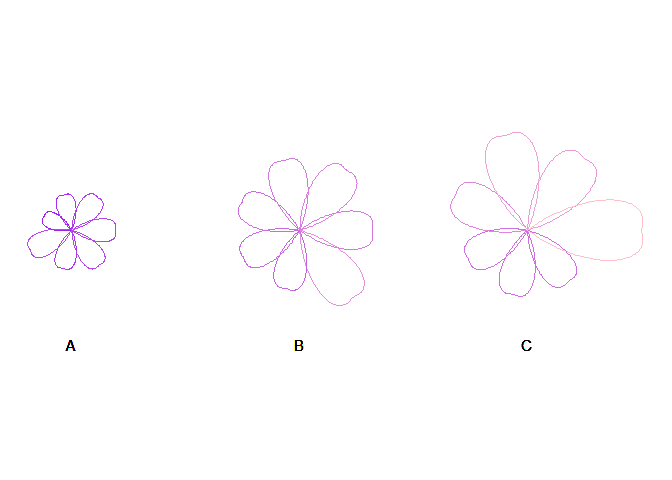
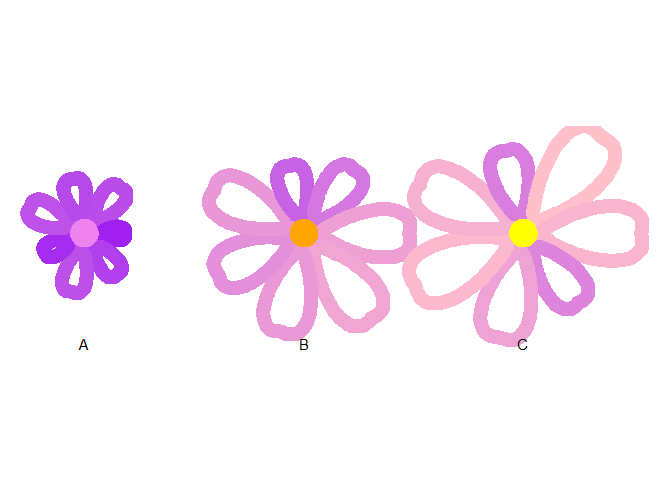
update readme

Changed region(s): [[0.2812, 0.25, 0.9688, 0.75], [0.0312, 0.3438, 0.2188, 0.625], [0.0938, 0.6875, 0.125, 0.75]]

diff --git a/README.md b/README.md
@@ -25,12 +25,15 @@ The function takes the following arguments (required in bold):
     horizontally positioned from each other
 -   `y_jitter` - a numeric field that controls the random vertical
     placement of each flower
+-   `my_hole_size` - a numeric field that controls the size of the
+    middle portion of the flower
 -   `my_curvature` - a numeric value that indicates the width of each
     petal
 -   `my_angle` - a numeric value between 0 and 180 that indicates where
     the widest point of curvature falls on the petal. Values closer to
     zero put this point closer to the middle of the flower, while values
     further from zero put the point further away.
+-   `lwd` - a numeric value that controls the width of the petal lines
 
 The function returns a `ggplot` object so other modifiers may be layered
 on after the function is called
@@ -55,9 +58,9 @@ df <- data.frame(
 )
 
 df %>%
-  draw_flowers(group, metric, metric, my_curvature = 0.7, my_angle = 130) +
-  scale_colour_gradient(low = "purple", 
-                        high = "pink") + 
+  draw_flowers(group, metric, metric, my_hole_size = 0.3, my_curvature = 0.7, my_angle = 130, my_lwd = 5) +
+  scale_colour_gradient(low = "purple", high = "pink") + 
+  scale_fill_manual(values = c("violet", "orange", "yellow")) + 
   theme(legend.position = "none")
 ```
 
